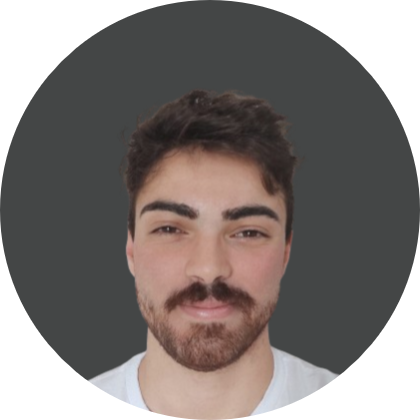
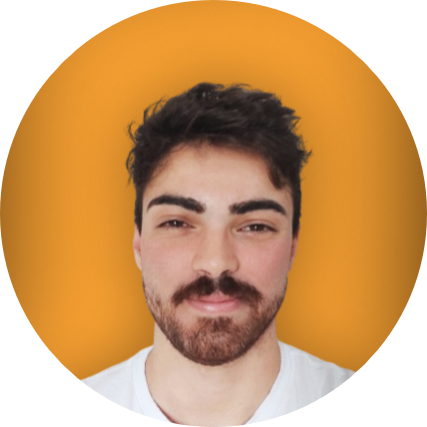
imagem e sobre atualizados

diff --git a/index.html b/index.html
@@ -102,7 +102,7 @@
           </div>
           <div class="text-container">
             <p>
-              Desenvolvedor Full-Stack com formação superior em Ciência da Computação e experiência em diversas áreas, incluindo orgãos governamentais, mercado financeiro, sistemas ERP e educacionais. Possui conhecimento de metodologias ágeis e de desenvolvimento, além de facilidade em aprender novas tecnologias e em encarar novos desafios.
+              Desenvolvedor Full-Stack com formação superior em Ciência da Computação, experiência em diversas áreas, incluindo órgãos governamentais, mercado financeiro, sistemas ERP e educacionais. Possui conhecimento de metodologias ágeis e de desenvolvimento, facilidade em aprender novas tecnologias e em encarar novos desafios. Além disso, possui inglês intermediário e experiência de trabalho em empresas estrangeiras.
             </p>
           </div>
         </div>
